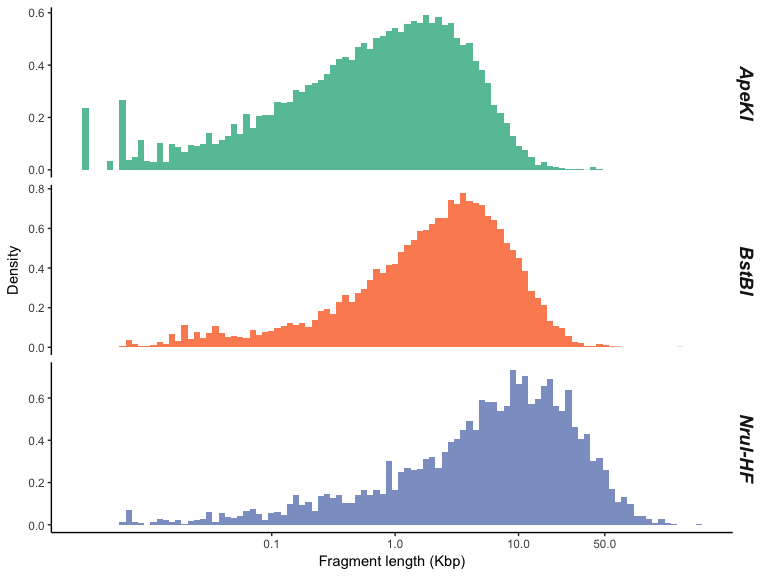
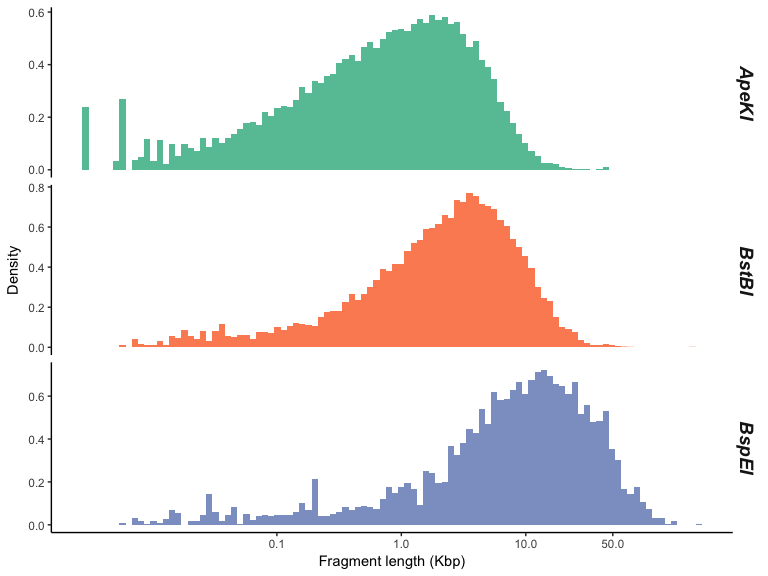
Re-did digestion, account for if enzymes had overhang

diff --git a/dv_digest.md b/dv_digest.md
@@ -83,17 +83,8 @@ enz_df <- data_frame(enzyme = c('ApeKI', 'SbfI', 'PstI', 'EcoT22I', 'BstBI', 'As
                                  c('CTGCA', 'G'), c('ATGCA', 'T'), c('TT', 'CGAA'), 
                                  c('GG', 'CGCGCC'), c('T', 'CCGGA'), c('AA', 'CGTT'), 
                                  c('TGC', 'GCA'), c('A', 'CGCGT'), c('TCG','CGA'))) %>% 
-    filter(!enzyme %in% c('SbfI', 'PstI', 'EcoT22I', 'AscI', 'BspEI', 'FspI'))
+    arrange(enzyme)
 ```
-
-The restriction enzymes below were filtered out (reasons and link to referencing site follow):
-
--   *SbfI*: Not blocked by CpG methylase ([link](https://www.neb.com/products/r0642-sbfi))
--   *PstI*: Not blocked by CpG methylase ([link](https://www.neb.com/products/r0140-psti))
--   *EcoT22I*: "... not sensitive to dam, dcm, or CG methylation" ([link](https://tools.thermofisher.com/content/sfs/manuals/15240501.pdf))
--   *AscI*: "AscI is strongly inhibited by NaCl and ammonium acetate" ([link](https://www.neb.com/products/r0558-asci))
--   *BspEI*: Only impaired by CpG methylase ([link](https://www.neb.com/products/r0540-bspei))
--   *FspI*: "Ligation is 25%–75%." ([link](https://www.neb.com/products/r0135-fspi))
 
 Digest genome
 =============
@@ -146,17 +137,33 @@ seq_p <- 654998 / 2.1e6
 
 Printing summary of each digestion, where all numbers assume `seq_p` proportion of sites get sequenced:
 
+    ## ---    AclI    ----
+    ## Loci per Mbp = 93.15 
+    ## Total loci = 57,892 
+    ## 
     ## ---    ApeKI    ----
     ## Loci per Mbp = 180.38 
     ## Total loci = 112,104 
+    ## 
+    ## ---    AscI    ----
+    ## Loci per Mbp = 0.62 
+    ## Total loci = 384 
+    ## 
+    ## ---    BspEI    ----
+    ## Loci per Mbp = 19.57 
+    ## Total loci = 12,161 
     ## 
     ## ---    BstBI    ----
     ## Loci per Mbp = 77.32 
     ## Total loci = 48,052 
     ## 
-    ## ---    AclI    ----
-    ## Loci per Mbp = 93.15 
-    ## Total loci = 57,892 
+    ## ---    EcoT22I    ----
+    ## Loci per Mbp = 105.00 
+    ## Total loci = 65,257 
+    ## 
+    ## ---    FspI    ----
+    ## Loci per Mbp = 27.01 
+    ## Total loci = 16,787 
     ## 
     ## ---    MluI-HF    ----
     ## Loci per Mbp = 47.31 
@@ -164,15 +171,23 @@ Printing summary of each digestion, where all numbers assume `seq_p` proportion 
     ## 
     ## ---    NruI-HF    ----
     ## Loci per Mbp = 23.35 
-    ## Total loci = 14,510
+    ## Total loci = 14,510 
+    ## 
+    ## ---    PstI    ----
+    ## Loci per Mbp = 59.82 
+    ## Total loci = 37,176 
+    ## 
+    ## ---    SbfI    ----
+    ## Loci per Mbp = 1.84 
+    ## Total loci = 1,142
 
 Choosing enzymes and visualizing fragment sizes
 ===============================================
 
-From the summary above, I'll use *ApeKI* as a common restriction enzyme, *BstBI* as intermediate, and *NruI-HF* as rare.
+From the summary above (and because all the following enzymes have overhangs), I'll use *ApeKI* as a common restriction enzyme, *BstBI* as intermediate, and *BspEI* as rare.
 
 ``` r
-chosen_res <- c('ApeKI', 'BstBI', 'NruI-HF')
+chosen_enz <- c('ApeKI', 'BstBI', 'BspEI')
 ```
 
 Below are histograms of the fragment sizes for the genome digested with each enzyme.

diff --git a/dv_rm_faraway.md b/dv_rm_faraway.md
@@ -1,0 +1,22 @@
+Remove areas faraway from cut sites
+================
+Lucas Nell
+28 March 2017
+
+*Updated 28 March 2017*
+
+This script provides background for the function that removes regions from digested fragments that will not be sequenced, those that are far from restriction enzyme cut sites
+
+**Loading packages:**
+
+``` r
+suppressPackageStartupMessages({
+    library(purrr)
+    library(dplyr)
+    library(ShortRead)
+})
+```
+
+Davey, J. W., P. A. Hohenlohe, P. D. Etter, J. Q. Boone, J. M. Catchen, and M. L. Blaxter. 2011. Genome-wide genetic marker discovery and genotyping using next-generation sequencing. *Nature Reviews Genetics* **12**:499–510. Available from <http://dx.doi.org/10.1038/nrg3012>
+
+Elshire, R. J., J. C. Glaubitz, Q. Sun, J. A. Poland, K. Kawamoto, E. S. Buckler, and S. E. Mitchell. 2011. A robust, simple genotyping-by-sequencing (GBS) approach for high diversity species. *PLOS ONE* **6**:e19379. Available from <http://dx.plos.org/10.1371/journal.pone.0019379>
